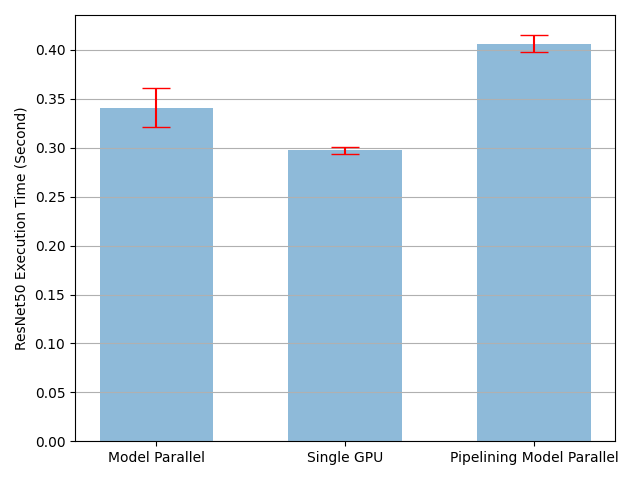
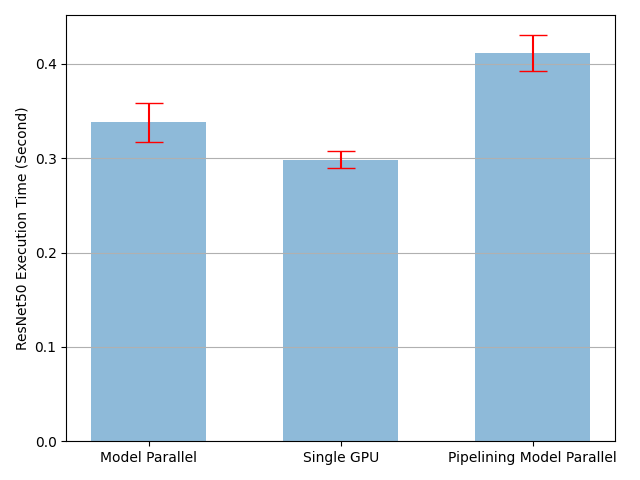
1

diff --git a/split_test.py b/split_test.py
@@ -1,0 +1,147 @@
+# ---------------------------------------------------------------------------- #
+#                           该脚本比较了split_size不同大小的区别
+# Intuitively speaking, using small split_size leads to many tiny CUDA kernel launch,
+# while using large split_size results to relatively long idle times during the first and last splits. 
+# ---------------------------------------------------------------------------- #
+
+from torchvision.models.resnet import ResNet, Bottleneck
+import torch.nn as nn
+import torchvision.models as models
+import torch.optim as optim
+import torch
+
+import matplotlib.pyplot as plt
+plt.switch_backend('Agg')
+import numpy as np
+import timeit
+
+num_classes = 1000
+
+num_batches = 3
+batch_size = 120
+image_w = 128
+image_h = 128
+
+num_repeat = 10
+
+
+class ModelParallelResNet50(ResNet):
+    def __init__(self, *args, **kwargs):
+        super(ModelParallelResNet50, self).__init__(
+            Bottleneck, [3, 4, 6, 3], num_classes=num_classes, *args, **kwargs)
+
+        self.seq1 = nn.Sequential(
+            self.conv1,
+            self.bn1,
+            self.relu,
+            self.maxpool,
+
+            self.layer1,
+            self.layer2
+        ).to('cuda:0')
+
+        self.seq2 = nn.Sequential(
+            self.layer3,
+            self.layer4,
+            self.avgpool,
+        ).to('cuda:1')
+
+        self.fc.to('cuda:1')
+
+    def forward(self, x):
+        x = self.seq2(self.seq1(x).to('cuda:1'))
+        return self.fc(x.view(x.size(0), -1))
+    
+
+
+
+class PipelineParallelResNet50(ModelParallelResNet50):
+    def __init__(self, split_size=20, *args, **kwargs):
+        super(PipelineParallelResNet50, self).__init__(*args, **kwargs)
+        self.split_size = split_size
+
+    def forward(self, x):
+        splits = iter(x.split(self.split_size, dim=0))
+        s_next = next(splits)
+        s_prev = self.seq1(s_next).to('cuda:1')
+        ret = []
+
+        for s_next in splits:
+            # A. ``s_prev`` runs on ``cuda:1``
+            s_prev = self.seq2(s_prev)
+            ret.append(self.fc(s_prev.view(s_prev.size(0), -1)))
+
+            # B. ``s_next`` runs on ``cuda:0``, which can run concurrently with A
+            s_prev = self.seq1(s_next).to('cuda:1')
+
+        s_prev = self.seq2(s_prev)
+        ret.append(self.fc(s_prev.view(s_prev.size(0), -1)))
+
+        return torch.cat(ret)
+
+
+
+def train(model):
+    model.train(True)
+    loss_fn = nn.MSELoss()
+    optimizer = optim.SGD(model.parameters(), lr=0.001)
+
+    one_hot_indices = torch.LongTensor(batch_size) \
+                           .random_(0, num_classes) \
+                           .view(batch_size, 1)
+
+    for _ in range(num_batches):
+        # generate random inputs and labels
+        inputs = torch.randn(batch_size, 3, image_w, image_h)
+        labels = torch.zeros(batch_size, num_classes) \
+                      .scatter_(1, one_hot_indices, 1)
+
+        # run forward pass
+        optimizer.zero_grad()
+        outputs = model(inputs.to('cuda:0'))
+
+        # run backward pass
+        labels = labels.to(outputs.device)
+        loss_fn(outputs, labels).backward()
+        optimizer.step()
+
+
+def plot(means, stds, labels, fig_name):
+    fig, ax = plt.subplots()
+    ax.bar(np.arange(len(means)), means, yerr=stds,
+           align='center', alpha=0.5, ecolor='red', capsize=10, width=0.6)
+    ax.set_ylabel('ResNet50 Execution Time (Second)')
+    ax.set_xticks(np.arange(len(means)))
+    ax.set_xticklabels(labels)
+    ax.yaxis.grid(True)
+    plt.tight_layout()
+    plt.savefig(fig_name)
+    plt.close(fig)
+
+
+
+
+
+if __name__=="__main__":
+    means = []
+    stds = []
+    split_sizes = [1, 3, 5, 8, 10, 12, 20, 40, 60]
+    stmt = "train(model)"
+    
+    for split_size in split_sizes:
+        setup = "model = PipelineParallelResNet50(split_size=%d)" % split_size
+        pp_run_times = timeit.repeat(
+            stmt, setup, number=1, repeat=num_repeat, globals=globals())
+        means.append(np.mean(pp_run_times))
+        stds.append(np.std(pp_run_times))
+
+    fig, ax = plt.subplots()
+    ax.plot(split_sizes, means)
+    ax.errorbar(split_sizes, means, yerr=stds, ecolor='red', fmt='ro')
+    ax.set_ylabel('ResNet50 Execution Time (Second)')
+    ax.set_xlabel('Pipeline Split Size')
+    ax.set_xticks(split_sizes)
+    ax.yaxis.grid(True)
+    plt.tight_layout()
+    plt.savefig("split_size_tradeoff.png")
+    plt.close(fig)

diff --git a/multiple.py b/multiple.py
@@ -14,7 +14,7 @@ parser.add_argument("--master_addr", default="127.0.0.1", type=str)
 parser.add_argument("--master_port", default="12355", type=str)
 args = parser.parse_args()
 
-
+# TODO：1
 def example(local_rank, node_rank, local_size, world_size):
     # 初始化
     rank = local_rank + node_rank * local_size
